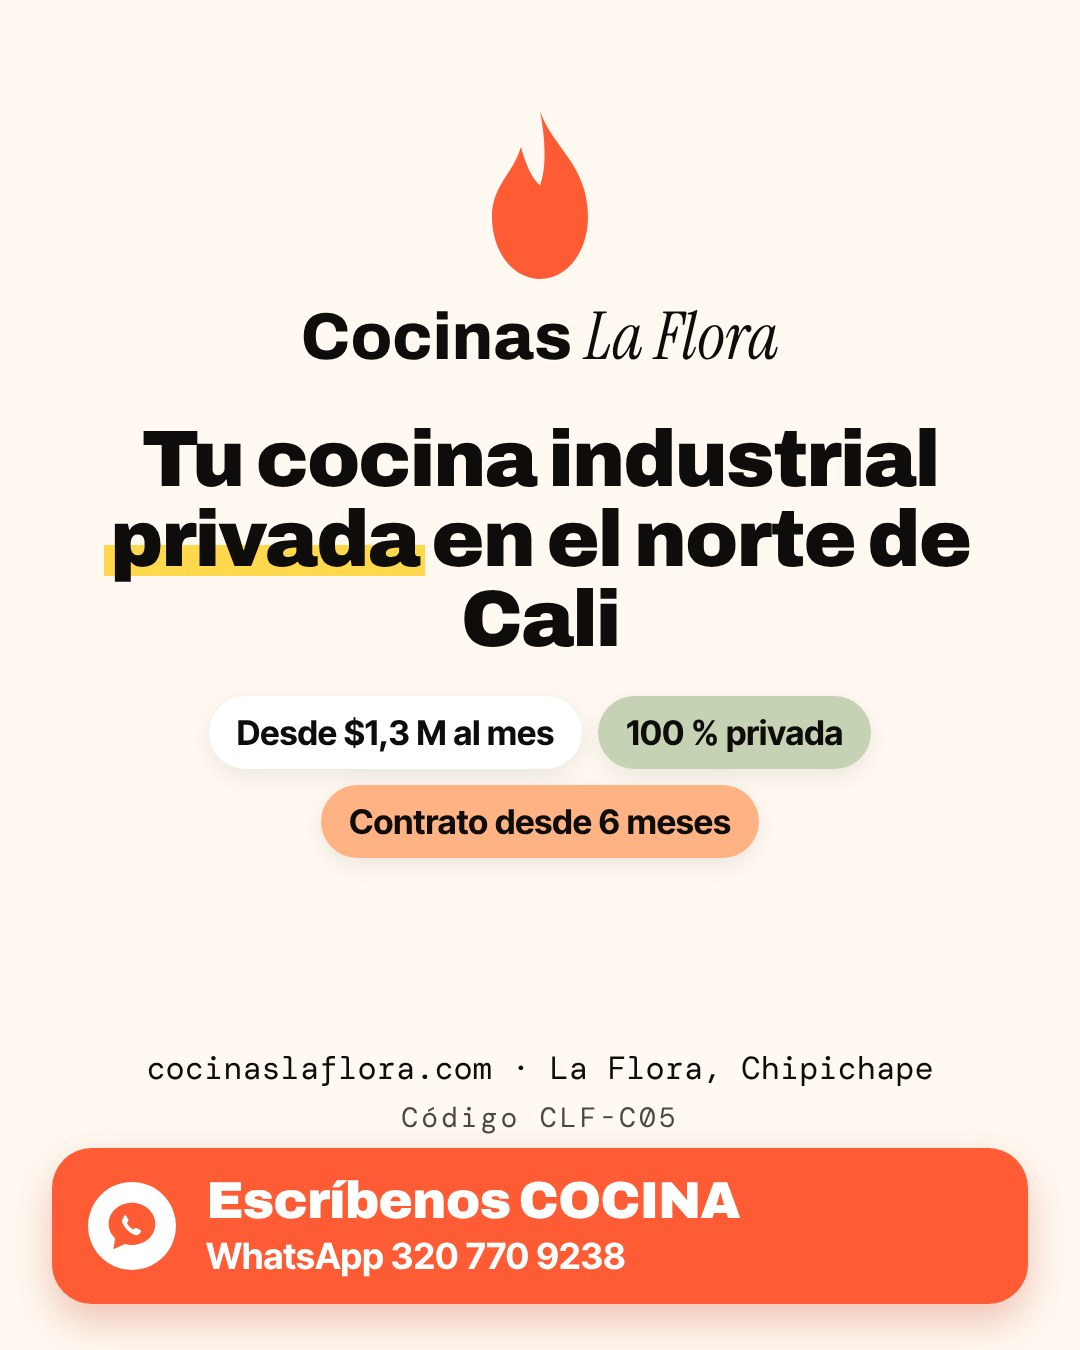
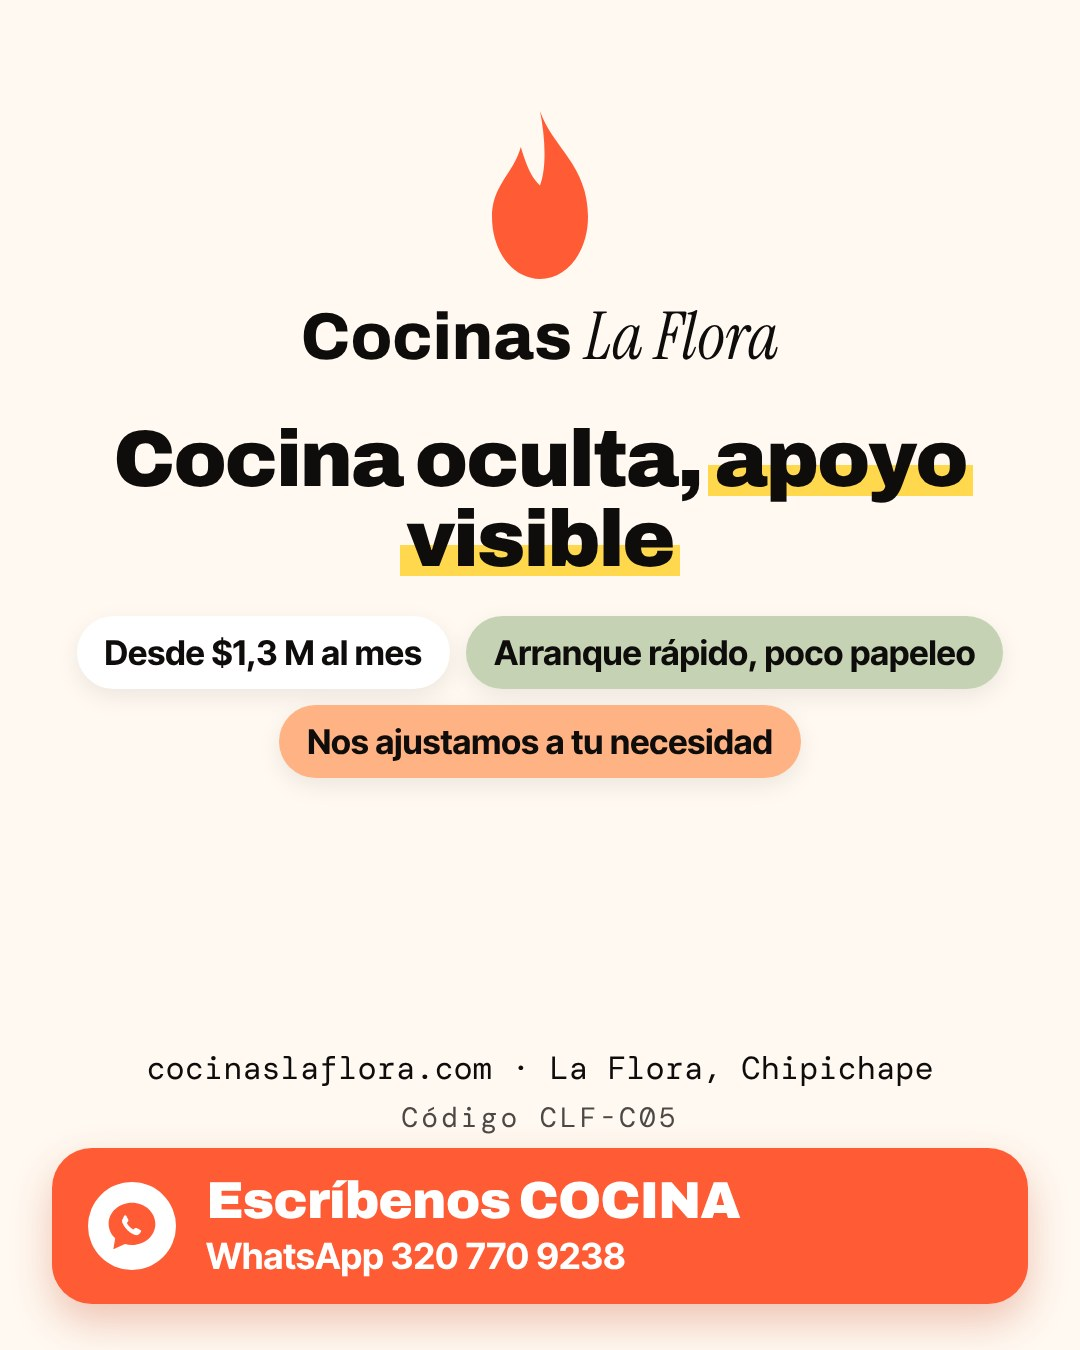
Propuesta de valor «Cocina oculta, apoyo visible» y 2 o más puntos de gas
Claude-Session: https://claude.ai/code/session_01XbyNNKVU25zC2yAuVpHdEA

Changed region(s): [[0.0917, 0.3111, 0.9472, 0.6533]]

diff --git a/GUIA.md b/GUIA.md
@@ -23,7 +23,9 @@ Reparte la semana así: unas 4 piezas de atraer, 3 de conectar y 2 de convertir.
 
 **Objeciones que hay que responder:** «Lo voy a pensar», «Es caro, en mi casa no pago arriendo», «¿Y si no vendo lo suficiente?», «¿Cuánto pago de servicios?».
 
-**Argumentos oficiales** (solo estos; las cifras salen de Notion): desde $1.300.000 al mes solo el espacio, contrato desde 6 meses, sin depósito, cocina 100 % privada, tres modalidades (solo espacio, con equipos u opción de compra de los equipos), servicios de unos $350.000 al mes en promedio, ubicación en La Flora · Chipichape, norte de Cali.
+**Propuesta de valor: «Cocina oculta, apoyo visible.»** El apoyo se ve en: flexibilidad, entender la necesidad de cada cliente y ajustarnos a ella, arranque rápido, poca burocracia y papeleo, y costos bajos frente a un local. Cada pieza de conectar o convertir debe mostrar al menos uno de estos apoyos, no solo el espacio.
+
+**Argumentos oficiales** (solo estos; las cifras salen de Notion): desde $1.300.000 al mes solo el espacio, contrato desde 6 meses, sin depósito, cocina 100 % privada, **2 o más puntos de gas, agua y electricidad: nos ajustamos a tu necesidad** (nunca escribas «2 puntos de gas» a secas), tres modalidades (solo espacio, con equipos u opción de compra de los equipos), servicios de unos $350.000 al mes en promedio, ubicación en La Flora · Chipichape, norte de Cali.
 
 ## 3. La imagen tiene que decir lo mismo que el texto
 
